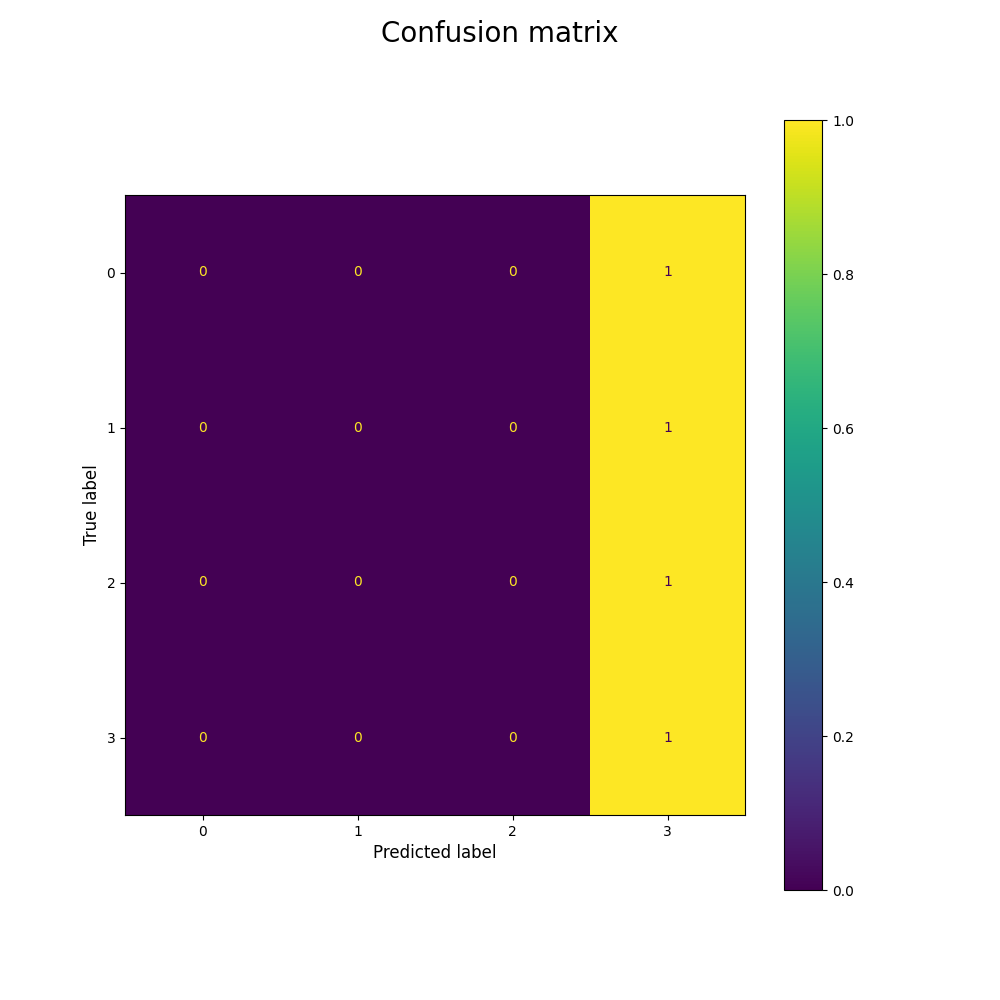
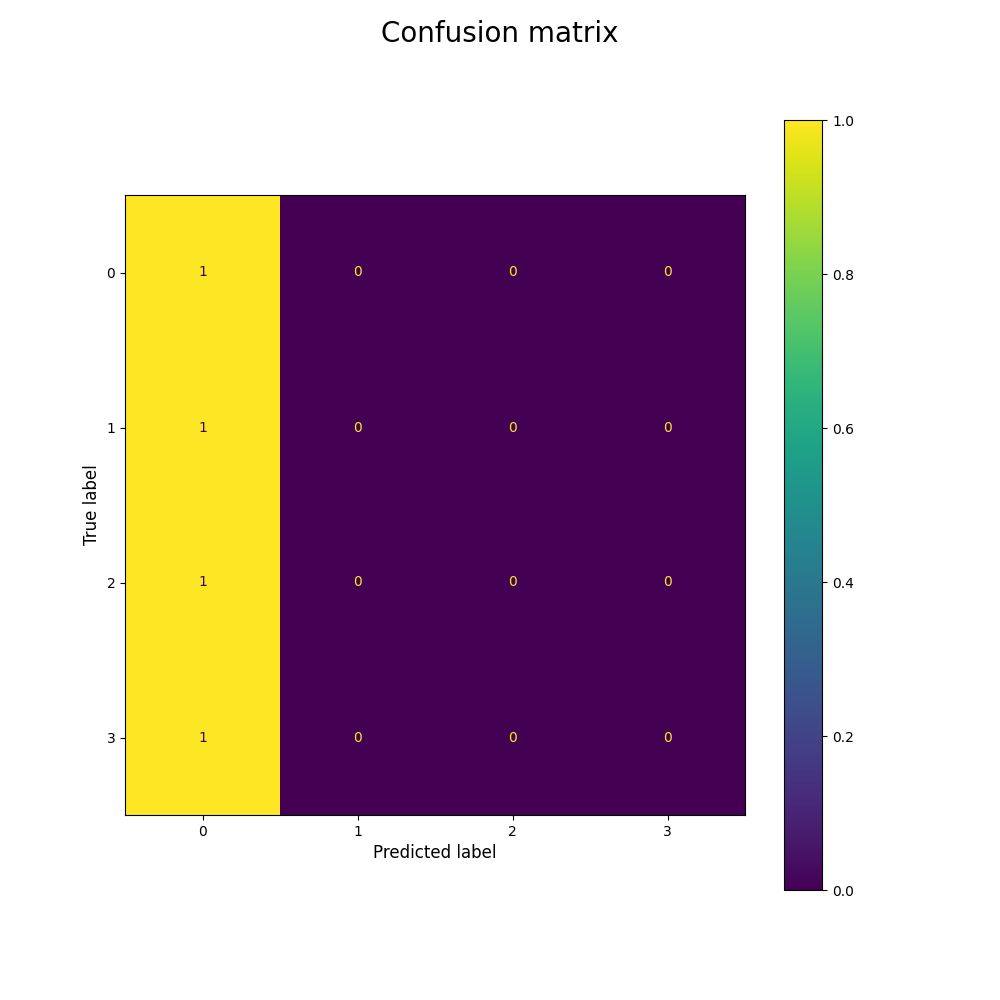
Feature: MLP

Changed region(s): [[0.589, 0.186, 0.744, 0.837], [0.124, 0.186, 0.279, 0.837]]

diff --git a/src/classification.py b/src/classification.py
@@ -4,11 +4,17 @@ import numpy as np
 from sklearn.neighbors import KNeighborsClassifier
 import matplotlib.pyplot as plt
 from sklearn.cluster import KMeans
+from sklearn.neural_network import MLPClassifier
 
 
 def svm_classification(train_features, labels_train, test_features, labels_test):
     # set parameters for SWM
-    clf = svm.SVC(C=1, kernel='rbf', verbose=False, gamma='scale')
+    clf = svm.SVC(
+        C=1,
+        kernel='rbf',
+        verbose=False,
+        gamma='scale'
+    )
 
     # train step
     clf.fit(train_features, labels_train)
@@ -36,7 +42,13 @@ def svm_classification(train_features, labels_train, test_features, labels_test)
 
 def knn_classification(train_features, labels_train, test_features, labels_test):
     # KNN
-    classifier = KNeighborsClassifier(n_neighbors=5, metric='minkowski', p=2, algorithm='brute', weights='uniform')
+    classifier = KNeighborsClassifier(
+        n_neighbors=5,
+        metric='minkowski',
+        p=2,
+        algorithm='brute',
+        weights='uniform'
+    )
     classifier.fit(train_features, labels_train)
 
     # predict
@@ -62,7 +74,12 @@ def knn_classification(train_features, labels_train, test_features, labels_test)
 
 def kmeans_classification(train_features, labels_train, test_features, labels_test):
     # K Means
-    classifier = KMeans(n_clusters=4, n_init=3, algorithm='lloyd', verbose=False)
+    classifier = KMeans(
+        n_clusters=4,
+        n_init=3,
+        algorithm='lloyd',
+        verbose=False
+    )
     classifier.fit(train_features)
 
     # predict train & test
@@ -88,3 +105,38 @@ def kmeans_classification(train_features, labels_train, test_features, labels_te
     plt.savefig('results/confusion-matrix-kmeans.png')
 
     print('K Means classification done')
+
+
+def mlp_classification(train_features, labels_train, test_features, labels_test):
+    # MLP
+    classifier = MLPClassifier(
+        random_state=1,
+        max_iter=300,
+        hidden_layer_sizes=[2000, 800, 400, 40],
+        activation='relu',
+        solver='adam',
+        learning_rate_init=0.001,
+        verbose=False,
+        early_stopping=True
+    )
+    classifier.fit(train_features, labels_train)
+
+    # predict
+    predictions = classifier.predict(test_features)
+
+    acc = accuracy_score(labels_test, predictions)
+    print('Prediction accuracy MLP:', acc * 100, '%')
+
+    # confusion matrix display
+    cmx = confusion_matrix(labels_test, predictions, normalize='true')
+    disp = ConfusionMatrixDisplay(confusion_matrix=cmx, display_labels=[0, 1, 2, 3])
+
+    fig, ax = plt.subplots(figsize=(10, 10))
+    fig.suptitle('Confusion matrix', fontsize=20)
+    plt.xlabel('True label', fontsize=12)
+    plt.ylabel('Predicted label', fontsize=12)
+    disp.plot(ax=ax)
+    # plt.show()
+    plt.savefig('results/confusion-matrix-mlp.png')
+
+    print('MLP classification done')

diff --git a/main.py b/main.py
@@ -3,6 +3,7 @@ import src.features as features
 import src.classification as classification
 import src.helpers as helpers
 from sklearn.utils import shuffle
+import numpy as np
 
 # ___________________________________________
 # PARAMETERS
@@ -33,8 +34,9 @@ if __name__ == '__main__':
     # compute HOG on dataset train original cropped
     # width, height = helpers.get_dimensions_for_resize(dataset_train_contour, dataset_test_contour)
     width, height = 128, 256
-    train_features, train_images_hog = features.extract_features_hog(dataset_train_mask_contour, width, height, False)
-    test_features, test_images_hog = features.extract_features_hog(dataset_test_mask_contour, width, height, False)
+    train_features, train_images_hog = features.extract_features_hog(dataset_train_mask_contour, width, height, True)
+    test_features, test_images_hog = features.extract_features_hog(dataset_test_mask_contour, width, height, True)
+    print(np.shape(train_features), np.shape(test_features))
 
     # random data
     train_features, labels_train = shuffle(train_features, labels_train)
@@ -47,4 +49,7 @@ if __name__ == '__main__':
     classification.knn_classification(train_features, labels_train, test_features, labels_test)
 
     # classification with K Means
-    classification.kmeans_classification(train_features, labels_train, test_features, labels_test)
+    # classification.kmeans_classification(train_features, labels_train, test_features, labels_test)
+
+    # MLP
+    # classification.mlp_classification(train_features, labels_train, test_features, labels_test)

diff --git a/src/features.py b/src/features.py
@@ -13,7 +13,7 @@ def extract_features_hog(dataset, width, height, example=False):
         # set same dimensions and HOG will return same dimension of features
         image = resize(image, [height, width])
 
-        fd, hog_image = hog(image, orientations=8, pixels_per_cell=(4, 4),
+        fd, hog_image = hog(image, orientations=4, pixels_per_cell=(4, 4),
                             cells_per_block=(2, 2), visualize=True) #, channel_axis=-1
 
         images_hog.append(hog_image)
